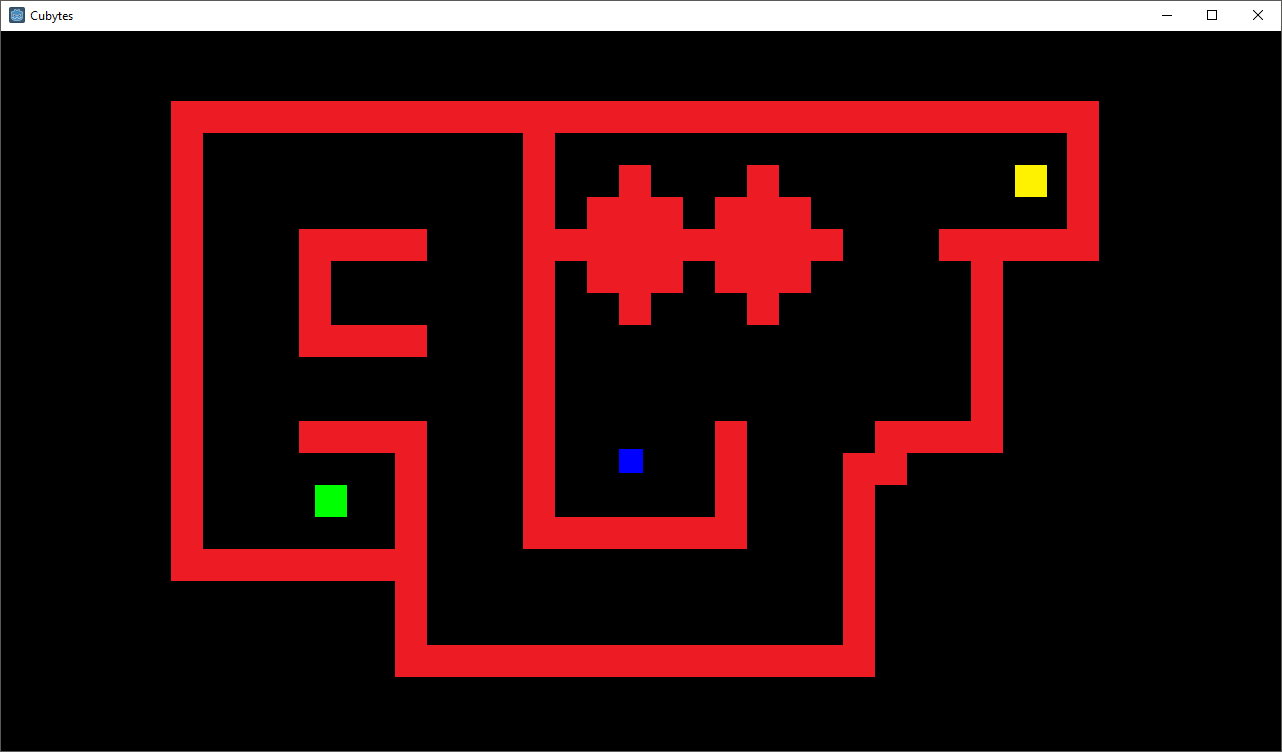
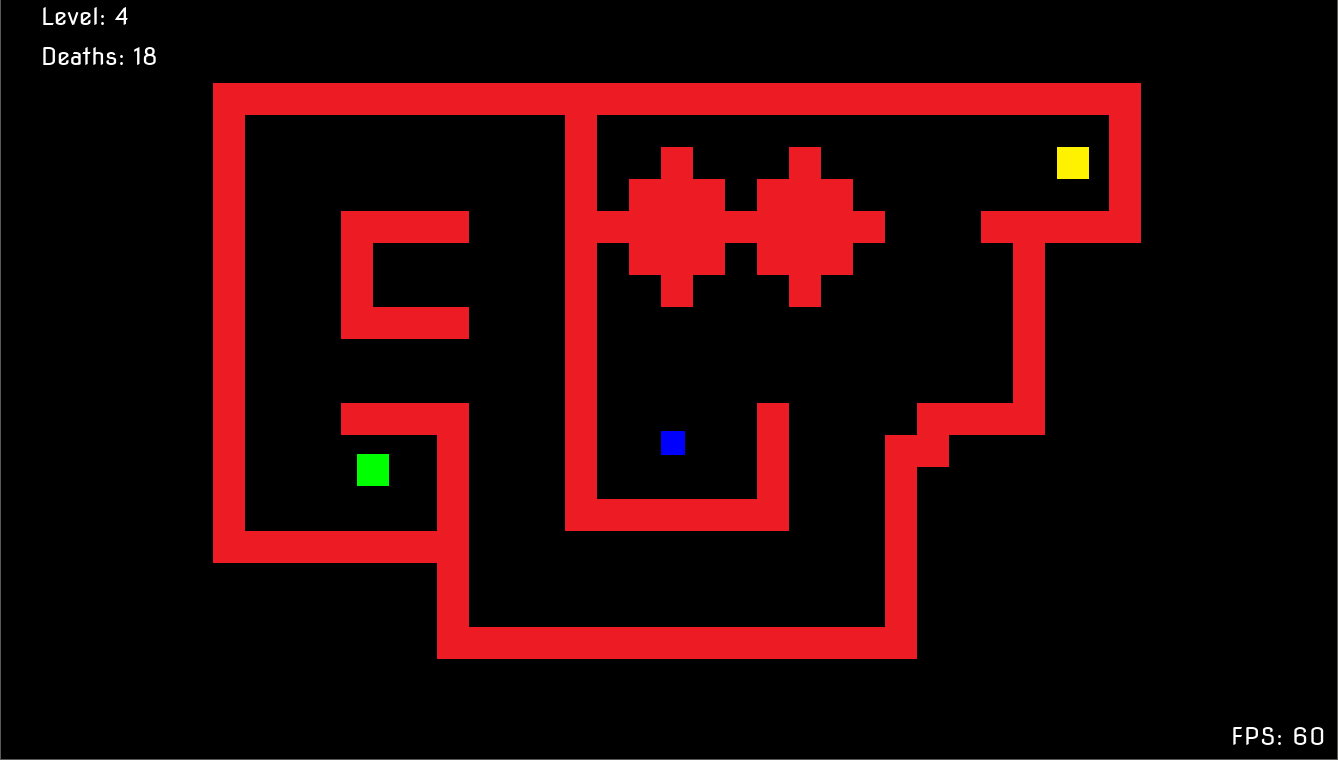
Update README
Also tweaked the screenshot to remove the windows bar. Looks dumb.

diff --git a/README.md b/README.md
@@ -1,23 +1,34 @@
 # Cubytes-Godot
 
 ## Media
-![](media/screenshot_2.png)
+![](media/screenshot_1.png)
+
 ## Description
-A remake of Cubytes with Godot 3.0.2, instead of the Chili Framework. I'll be adding new features to it as time goes on and hopefully by the end of it create a full-featured game.
+A remake of Cubytes with Godot 3.0.4, instead of the Chili Framework. I'll be adding new features to it as time goes on and hopefully by the end of it create a full-featured game.
+
+## Releases
+### **Alpha 4.5:** 
+- [Windows](https://github.com/Battlefrog/Cubytes-Godot/releases/download/v0.045/Cubytes_Alpha4.5_Windows.zip)
+- [MacOS](https://github.com/Battlefrog/Cubytes-Godot/releases/download/v0.045/Cubytes_Alpha4.5_macOS.zip)
+- [Linux](https://github.com/Battlefrog/Cubytes-Godot/releases/download/v0.045/Cubytes_Alpha4.5_Linux.zip)
+
+### **Alpha 4:**
+- [Windows](https://github.com/Battlefrog/Cubytes-Godot/releases/download/v0.04/Cubytes.-.Alpha.4.zip)
+
+### **Alpha 3:** 
+- [Windows](https://github.com/Battlefrog/Cubytes-Godot/releases/download/v.0.03/Cubytes.-.Alpha.3.zip)
+
+### **Alpha 2:** 
+- [Windows](https://github.com/Battlefrog/Cubytes-Godot/releases/download/v0.0.2/Cubytes.-.Alpha.2.zip)
+
+### **Alpha 1:** 
+- [Windows](https://github.com/Battlefrog/Cubytes-Godot/releases/download/v.0.01/Alpha.1.zip)
 
 ## Running
-To run it, open the **"project.godot"** file in Godot 3.0.2+. Should bulid itself, provided I didn't screw everything up.
+To run it, open the **"project.godot"** file in Godot 3.0+. Should bulid itself, provided I didn't screw everything up.
 
 ## License
 Cubytes-Godot is under a MIT license. This means that you can share the program, but please keep in mind that:
 * The only place for the source code is here.
 * I (Battlefrog) still maintain the copyright, so you should respect it.
 
-## Releases
-**Alpha 1:** [Download - Windows Only](https://github.com/Battlefrog/Cubytes-Godot/releases/download/v.0.01/Alpha.1.zip)
-
-**Alpha 2:** [Download - Windows Only](https://github.com/Battlefrog/Cubytes-Godot/releases/download/v0.0.2/Cubytes.-.Alpha.2.zip)
-
-**Alpha 3:** [Download - Windows Only](https://github.com/Battlefrog/Cubytes-Godot/releases/download/v.0.03/Cubytes.-.Alpha.3.zip)
-
-**Alpha 4:** [Download - Windows](https://github.com/Battlefrog/Cubytes-Godot/releases/download/v0.04/Cubytes.-.Alpha.4.zip)
